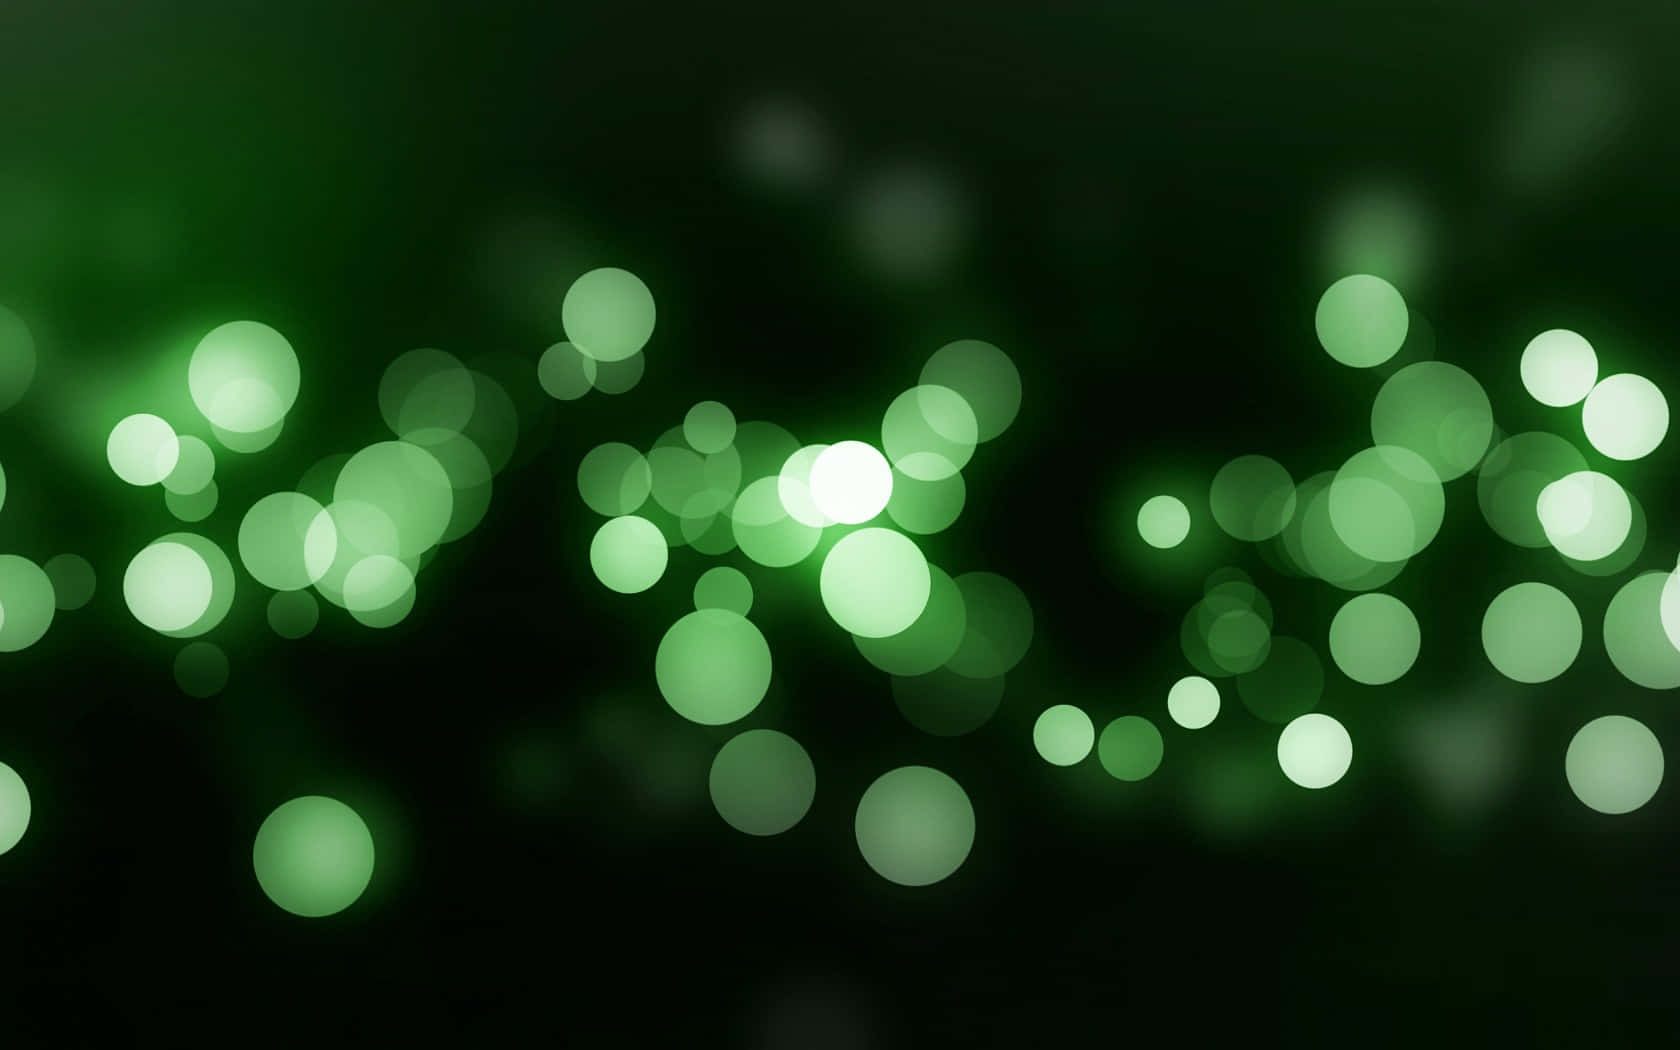
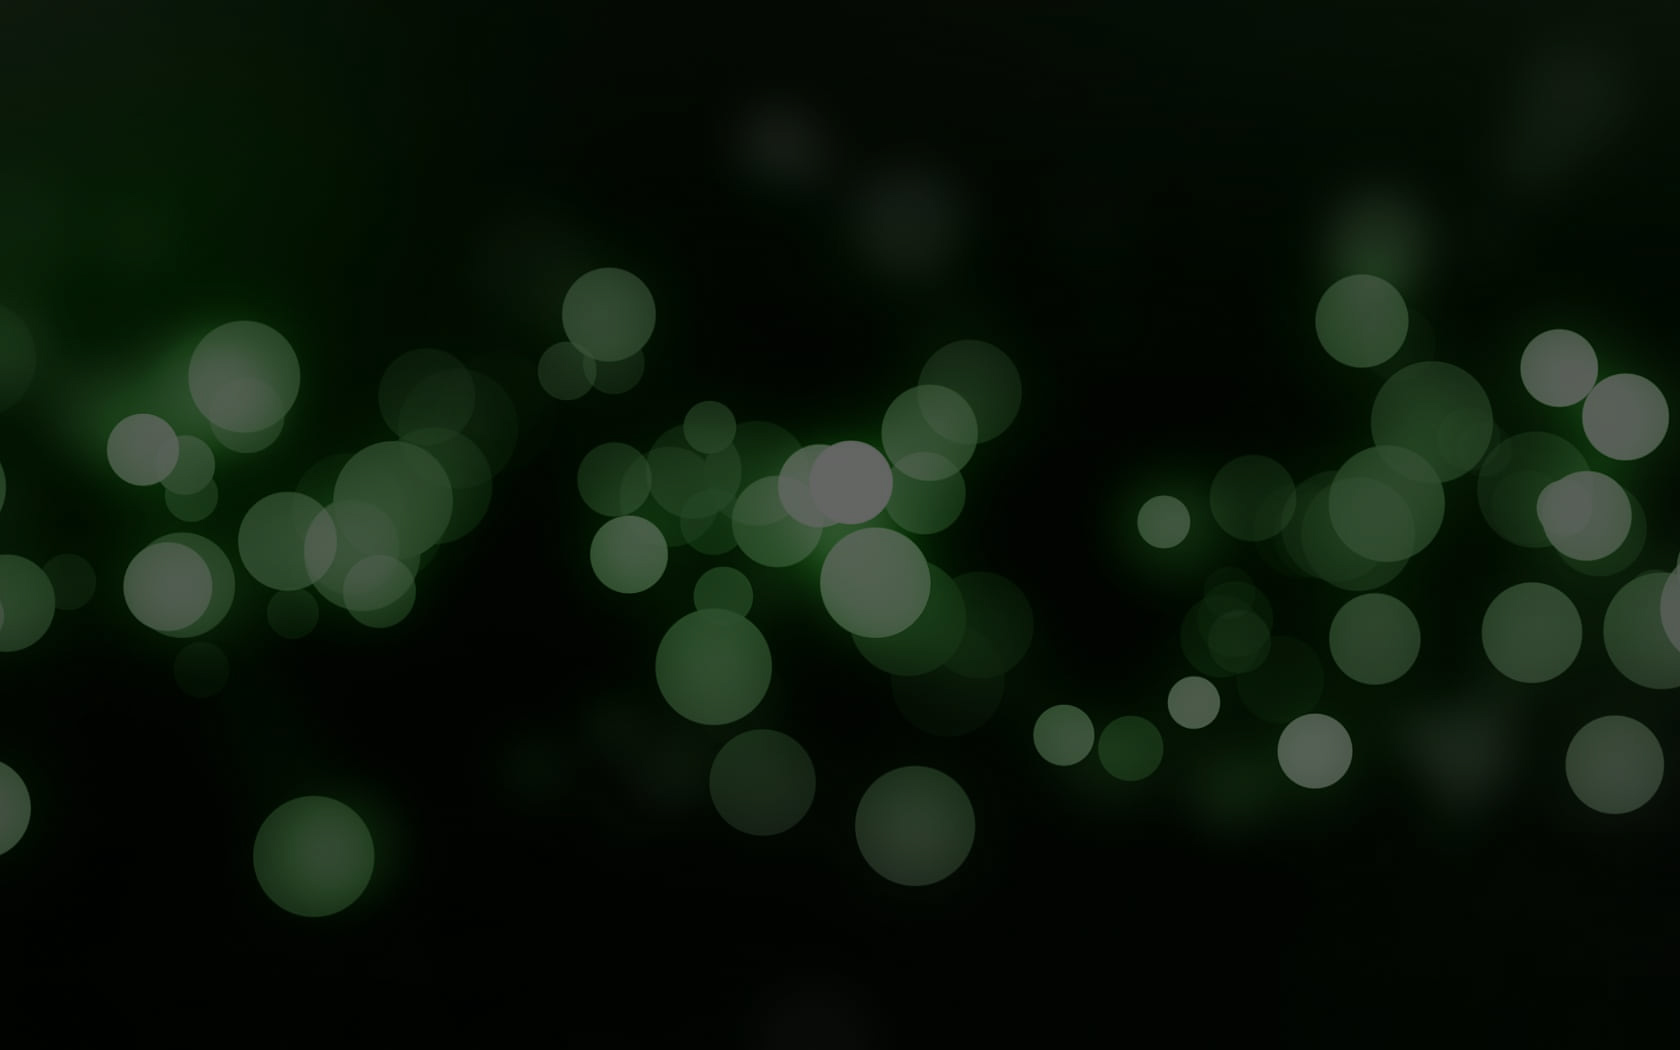
adaptive

diff --git a/src/components/Main/Main.tsx b/src/components/Main/Main.tsx
@@ -14,6 +14,7 @@ const Main = ({ currentSong, setCurrentSong}:MainProps) => {
   const [volume, setVolume] = useState<number>(40)
   const [timeFormat, setTimeFormat] = useState<timeFormat>('left') // left | total
   const [isMuted, setIsMuted] = useState<boolean>(false);
+  const [lastVolume, setLastVolume] = useState<number>(0)
 
   const audioRef = useRef<HTMLAudioElement>(null);
 
@@ -62,6 +63,7 @@ const Main = ({ currentSong, setCurrentSong}:MainProps) => {
   }
 
   const onMute = () => {
+    setLastVolume(volume);
     setIsMuted(true);
     audioRef.current!.volume = 0;
     setVolume(0);
@@ -69,8 +71,8 @@ const Main = ({ currentSong, setCurrentSong}:MainProps) => {
 
   const onUnmute = () => {
     setIsMuted(false);
-    audioRef.current!.volume = 50 / 100;
-    setVolume(50);
+    audioRef.current!.volume = lastVolume / 100;
+    setVolume(lastVolume);
   }
 
   return (
@@ -83,6 +85,7 @@ const Main = ({ currentSong, setCurrentSong}:MainProps) => {
 
 
       <audio 
+        muted = {isMuted}
         controls = {false} 
         onTimeUpdate={e => onTimeChange(e.currentTarget.currentTime)} 
         ref={audioRef} 
@@ -101,21 +104,22 @@ const Main = ({ currentSong, setCurrentSong}:MainProps) => {
       </div>
       <input type="range" className='range' value={timeInput} onChange={e => onTimeInputChange(e.target.value)}/>
 
-      <div className='VolumeInput'>
-        {isMuted
-        ? <img onClick={onUnmute} width={20} height={20} className='mr-6 hover:cursor-pointer' src={volumeOffIcon} alt="unmute" />
-        : <img onClick={onMute} width={20} height={20} className='mr-6 hover:cursor-pointer' src={volumeIcon} alt="mute" />
-        }
-        
-        <input type="range" className='range' value={volume} onChange={e => onVolumeInputChange(e.target.value)}/>
+      <div className='items-center justify-between'>
+        <div className='VolumeInput'>
+          {isMuted
+          ? <img onClick={onUnmute} width={20} height={20} className='mr-6 hover:cursor-pointer' src={volumeOffIcon} alt="unmute" />
+          : <img onClick={onMute} width={20} height={20} className='mr-6 hover:cursor-pointer' src={volumeIcon} alt="mute" />
+          }
+          
+          <input type="range" className='range' value={volume} onChange={e => onVolumeInputChange(e.target.value)}/>
+        </div>
+        <Buttons
+          isPlaying = {isPlaying}
+          toggleIsPlaying = {toggleIsPlaying}
+          onNextSong = {onNextSong}
+          onPrevSong = {onPrevSong}
+        />
       </div>
-
-      <Buttons
-        isPlaying = {isPlaying}
-        toggleIsPlaying = {toggleIsPlaying}
-        onNextSong = {onNextSong}
-        onPrevSong = {onPrevSong}
-      />
     </div>
   )
 }

diff --git a/src/index.css b/src/index.css
@@ -77,8 +77,8 @@ h1, h2, h3, h4, h5, h6 {
 
 /* ------------------------------------------------------------------ */
 
-body{
-  background: url('./assets//images//purpleBg.jpg') 0 0/cover;
+.App{
+  background: url('./assets//images//purpleBg.jpg') 0 0/cover no-repeat, rgba(0, 0, 0, 0.603);
 }
 
 @import url('https://fonts.googleapis.com/css2?family=Poppins:wght@100;200;300;400;500;600;700;800;900&display=swap');
@@ -91,7 +91,7 @@ body{
 }
 
 .Main {
-  @apply absolute ml-[50%] translate-x-[-50%] min-w-[400px] inline-block rounded-[50px] p-7 font-[Poppins] text-white shadow-2xl border border-solid border-white backdrop-blur-2xl;
+  @apply rounded-[50px] px-7 font-[Poppins] text-white lg:w-[1000px] lg:ml-[50%] lg:translate-x-[-50%] 2xl:w-[1300px];
 }
 
 .AlbumCover {
@@ -99,11 +99,15 @@ body{
 }
 
 .SongName {
-  @apply text-center font-light text-[25px] mb-5;
+  @apply text-center font-light text-[25px] mb-5 leading-10;
 }
 
 .ArtistName {
   @apply text-center font-extralight text-[17px] opacity-80 mb-11;
+}
+
+.ButtonsContainer {
+  @apply mt-12 mb-12 h-12 max-w-[360px] min-w-[260px] flex justify-between items-center ml-[50%] translate-x-[-50%] lg:translate-x-[-50%];
 }
 
 .ControlButton {
@@ -111,17 +115,11 @@ body{
 }
 
 .VolumeInput {
-  @apply flex justify-between items-center mt-16 w-56;
+  @apply flex justify-between items-center w-56 mt-12;
 }
 
 .range {
-  width: 100%;
-  height: 3px;
-  appearance: none;
-  background: #ffffff;
-  outline: none;
-  border-radius: 15px;
-  overflow: hidden;
+  @apply w-full h-[8px] md:h-[3px] appearance-none bg-[#ffffff] outline-none rounded-[15px] overflow-hidden;
 }
 
 .range::-webkit-slider-thumb {

diff --git a/src/components/Aside/Aside.tsx b/src/components/Aside/Aside.tsx
@@ -4,9 +4,9 @@ import { AsideProps } from '../../helpers/types';
 
 const Aside = ({ currentSong, setCurrentSong }: AsideProps) => {
   return (
-    <div className='font-[Poppins] font-thin text-[22px] opacity-75 ml-7'>
+    <div className='font-[Poppins] font-thin text-[22px] text-center opacity-75 px-8'>
         {songsArr.map(song => (
-            <div className='mb-7 hover:cursor-pointer hover:translate-x-[15px] duration-200' onClick={() => setCurrentSong(song.songId)}>
+            <div className='leading-10 mb-7 hover:cursor-pointer duration-200 md:hover:translate-x-[4px]' onClick={() => setCurrentSong(song.songId)}>
                 {
                     song.songId === currentSong
                     ? <span className='font-normal'><span>{song.songName}</span><span > - </span><span>{song.artistName}</span></span>

diff --git a/src/App.tsx b/src/App.tsx
@@ -8,12 +8,12 @@ function App() {
   const [currentSong, setCurrentSong] = useState(0);
 
   return (
-    <div className="App h-screen flex flex-col justify-between bg-black bg-opacity-60 text-white">
+    <div className="App text-white">
       <div>
         <Header />
-        <div className='flex mt-20'>
-          <Aside currentSong={currentSong} setCurrentSong={setCurrentSong}/>
+        <div className=''>
           <Main currentSong={currentSong} setCurrentSong={setCurrentSong}/>
+          <Aside currentSong={currentSong} setCurrentSong={setCurrentSong}/>
         </div>
       </div>
       <Footer />

diff --git a/src/components/Main/Buttons/Buttons.tsx b/src/components/Main/Buttons/Buttons.tsx
@@ -15,7 +15,7 @@ interface ButtonsProps {
 
 const Buttons = ({ isPlaying, toggleIsPlaying, onNextSong, onPrevSong }: ButtonsProps) => {
   return (
-    <div className='mt-24 mb-6 h-12 w-[60%] ml-[50%] translate-x-[-50%] flex justify-between items-center font-[Poppins] text-[25px]'>
+    <div className='ButtonsContainer'>
         <button onClick={onPrevSong} className='ControlButton'>
           <img width={40} height={40} src={prevButton} alt="prevBtn" />
         </button>

diff --git a/src/components/Footer/Footer.tsx b/src/components/Footer/Footer.tsx
@@ -2,7 +2,7 @@ import React from 'react'
 
 const Footer = () => {
   return (
-    <footer className='bg-black text-center font-[Poppins] text-[20px] font-thin py-7'>
+    <footer className='bg-black text-center font-[Poppins] text-[20px] font-thin py-7 border-t border-white border-opacity-[15%] border-solid'>
       &copy;Daniil Logvinenko 2023
     </footer>
   )
